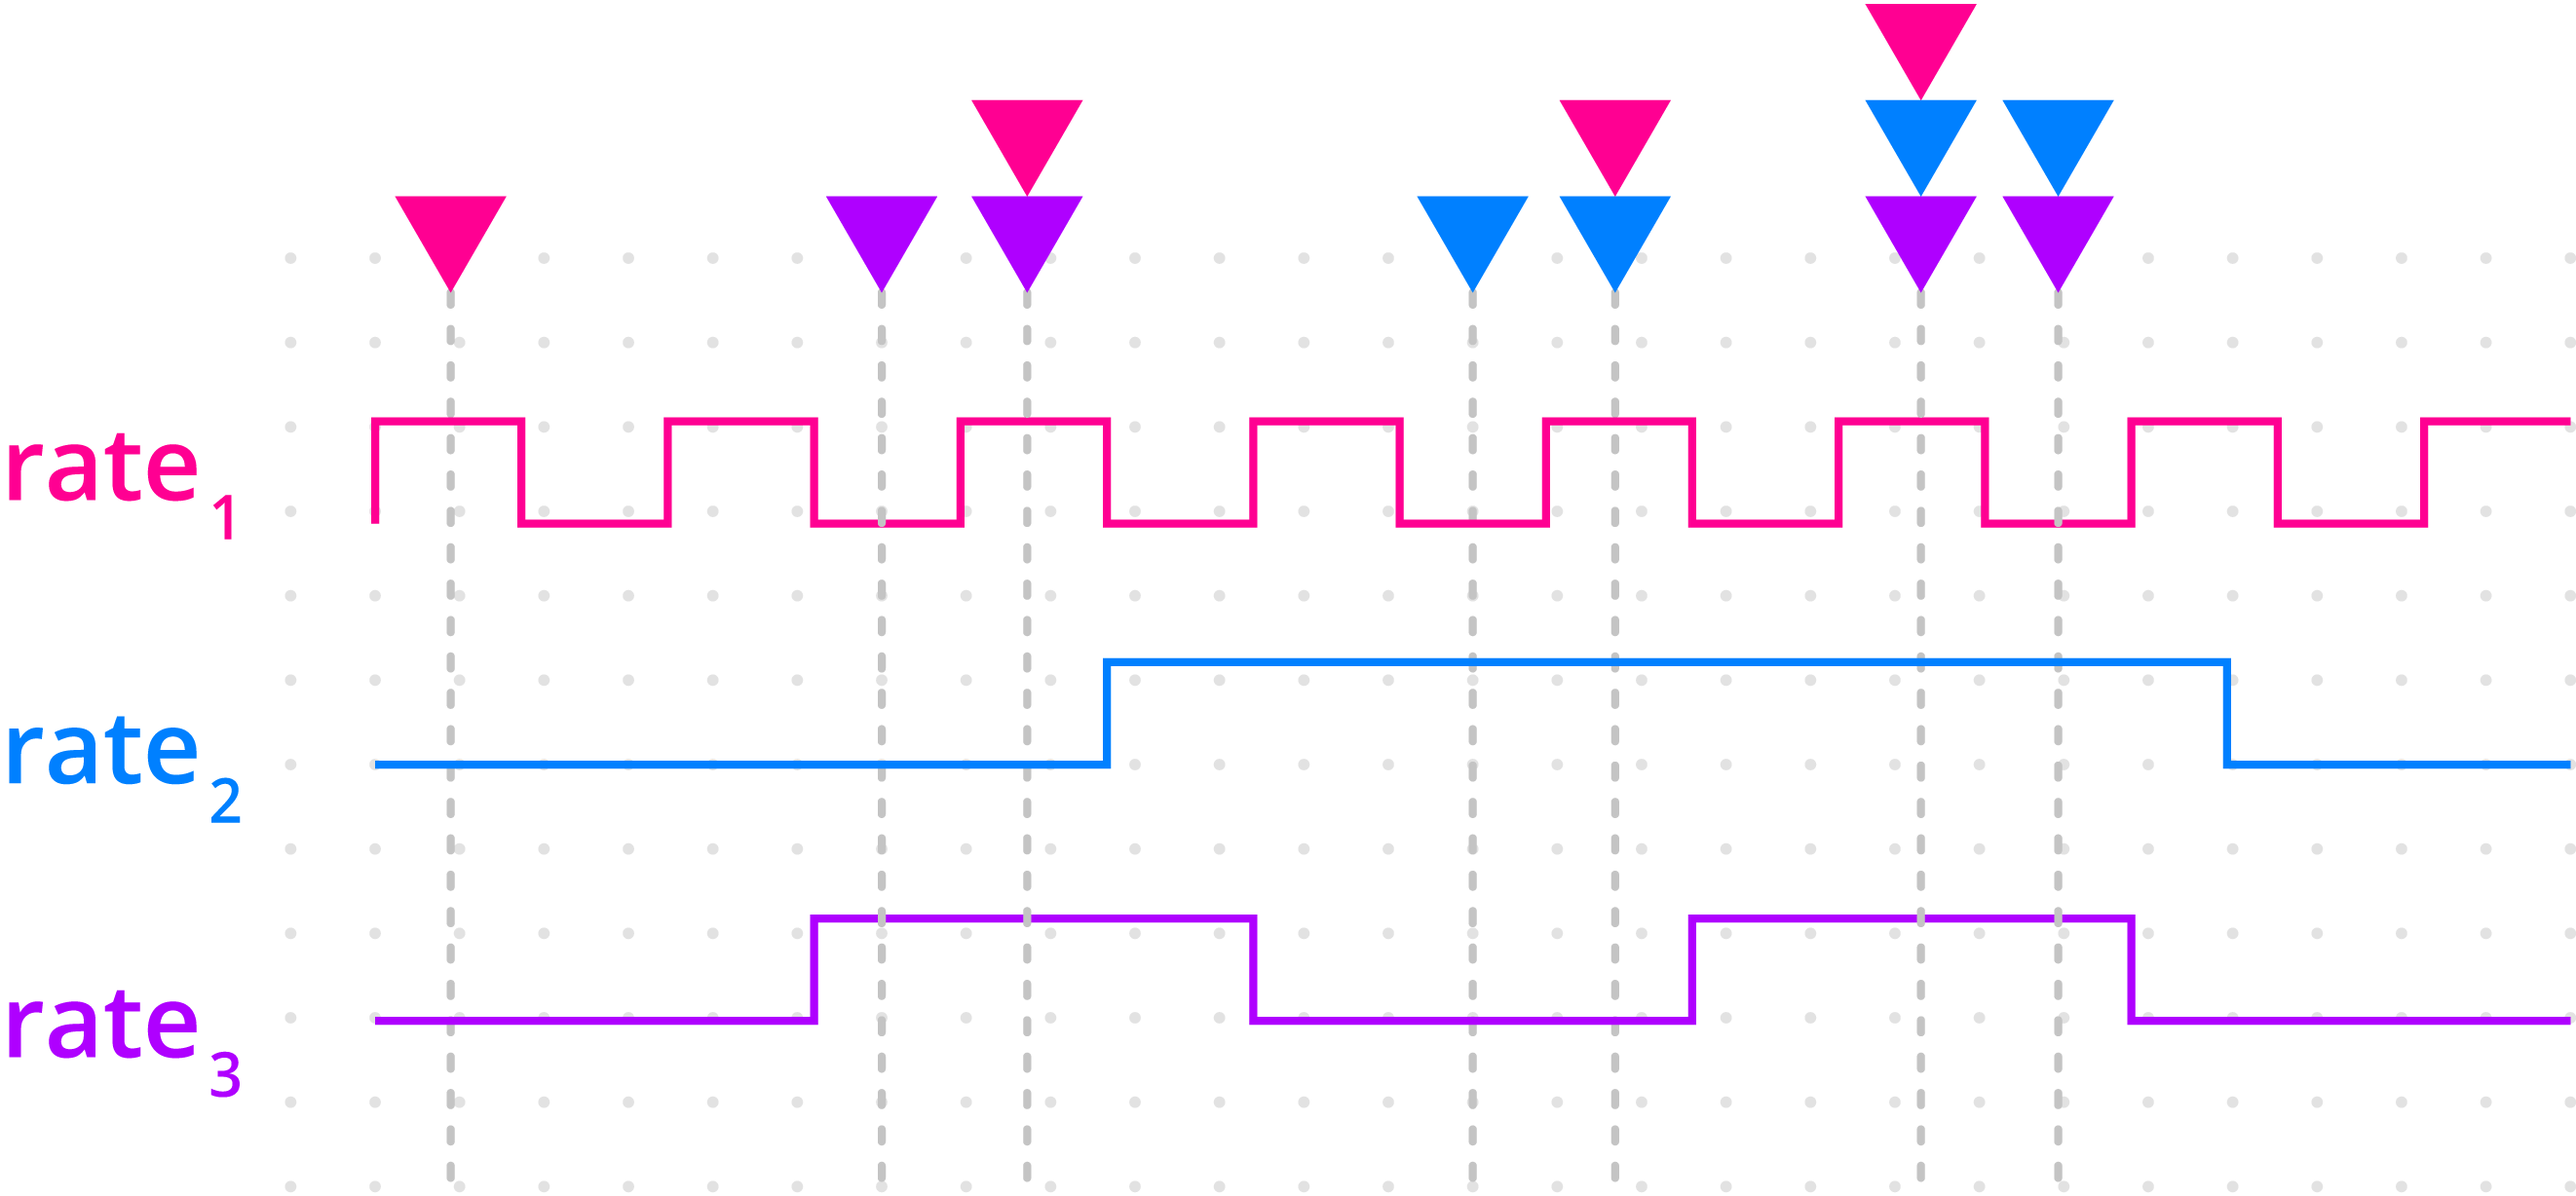
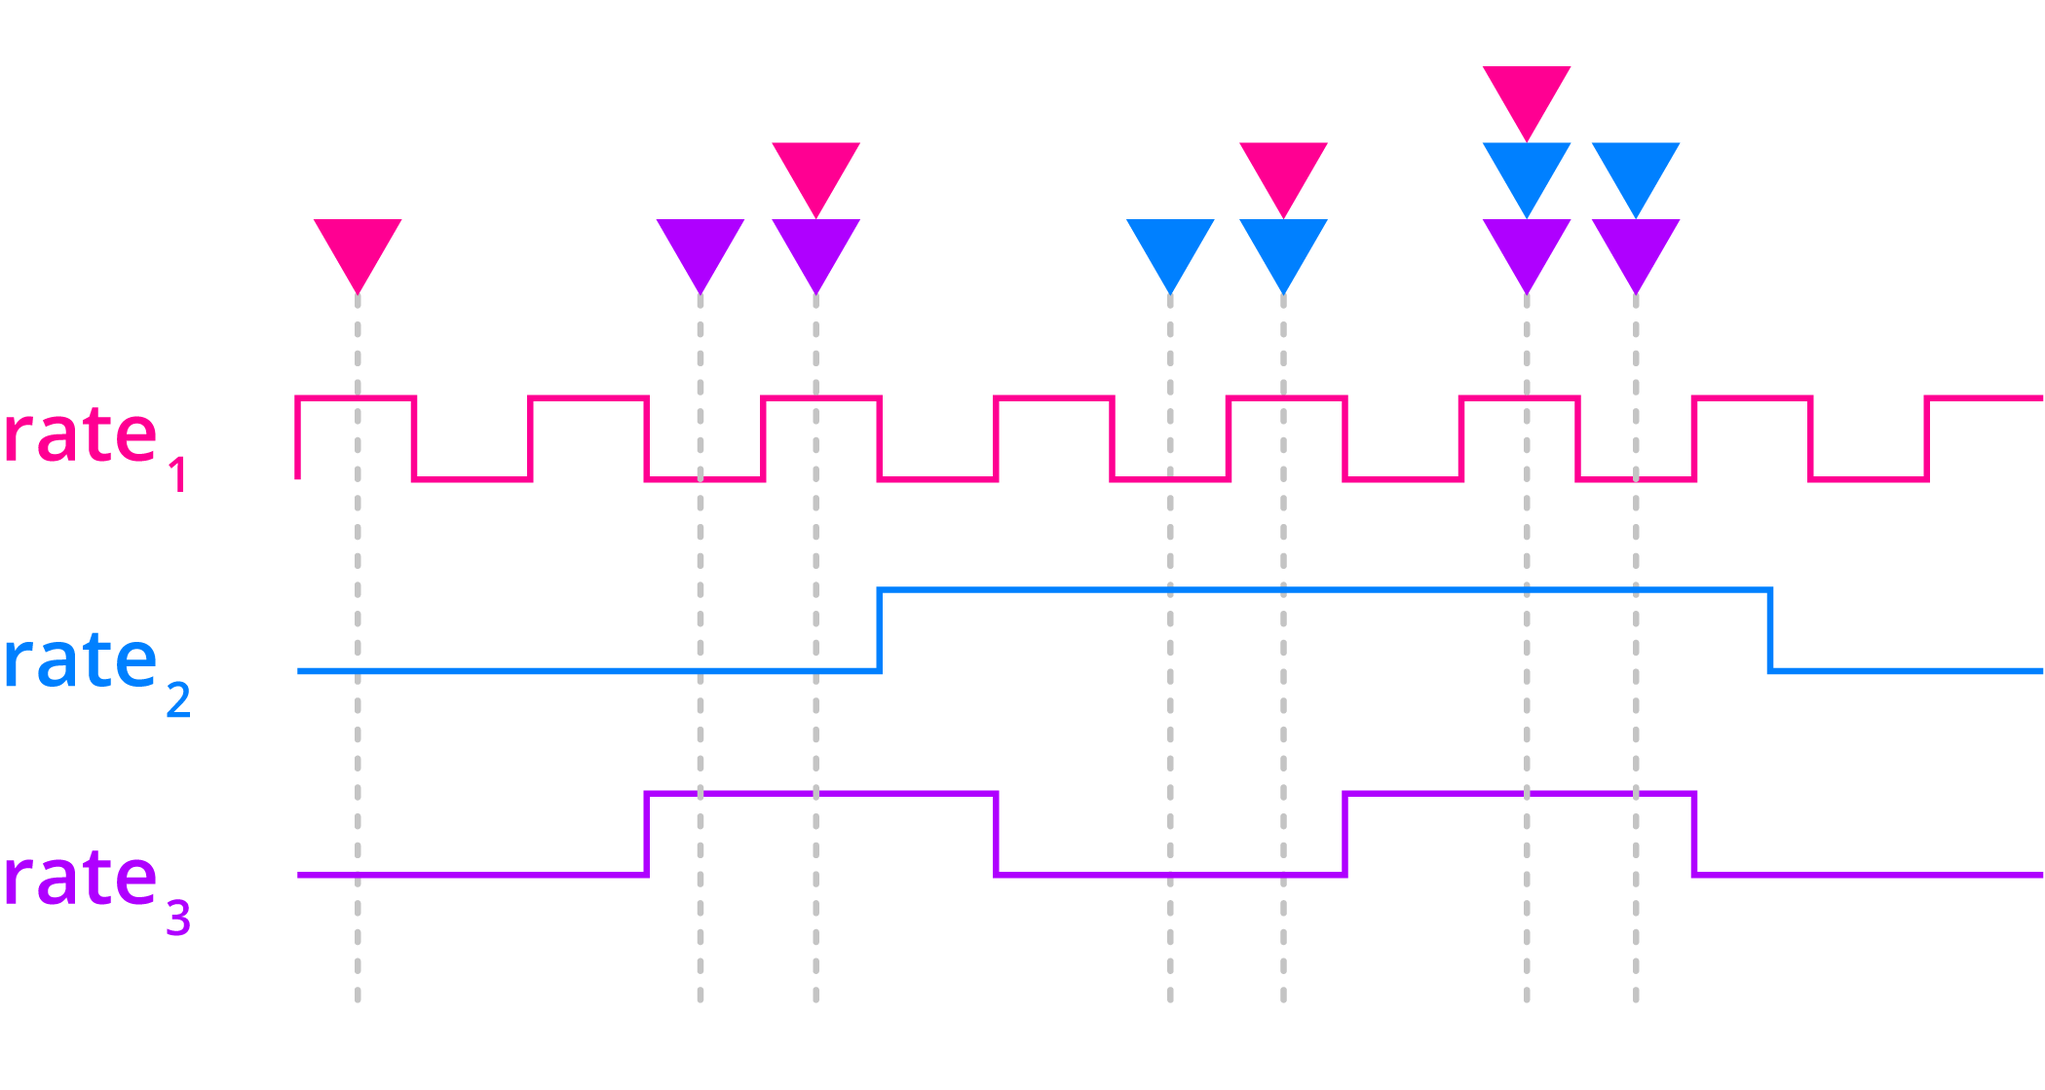
Updates for readability

diff --git a/src/articles/components/kalman-filter.tsx b/src/articles/components/kalman-filter.tsx
@@ -13,7 +13,8 @@ import {
   multiply,
   divide,
   add,
-  subtract
+  subtract,
+  sum
 } from 'mathjs';
 import { MOBILE } from '../../constants';
 import LoadImage from './load';
@@ -34,6 +35,7 @@ const kalmanFilter = ({
   const Atrans = transpose(A);
   const Ctrans = transpose(C);
   const I = identity(x0.size());
+  const gains = [];
 
   // Initial estimate from system with initial state
   let y = multiply(C, x0)._data[0][0];
@@ -44,7 +46,7 @@ const kalmanFilter = ({
   // Initial uncertainty
   let P = P0;
 
-  return measurements.map((measurement, index) => {
+  const outputs = measurements.map((measurement, index) => {
     // Input
     const z = isNaN(measurement) ? 0 : measurement;
     const u = isNaN(inputs[index]) ? 0 : inputs[index];
@@ -78,8 +80,11 @@ const kalmanFilter = ({
     x = add(multiply(A, x), multiply(B, u));
 
     // Output
+    gains.push(sum(K));
     return y;
   });
+
+  return { outputs, gains };
 };
 
 //
@@ -342,10 +347,13 @@ const Chart = ({
   rows,
   columnIndex,
   outputs,
+  gains,
   width
 }) => {
   const height = 200;
   const rulerMarkSize = 40;
+
+  const [hoverPos, setHoverPos] = useState();
 
   const samples = useMemo(
     () => rows.slice(0, rows.length - 1).map(r => Number(r[columnIndex] ?? 0)),
@@ -358,13 +366,40 @@ const Chart = ({
     }), {}),
   [samples]);
 
+  const { minGain, maxGain } = useMemo(() => gains.reduce(
+    ({ minGain, maxGain }, gain) => ({
+      minGain: minGain === undefined ? gain : Math.min(minGain, gain),
+      maxGain: maxGain === undefined ? gain : Math.max(maxGain, gain),
+    }), {}),
+  [gains])
+
+  const chartRef = useRef();
+
+  const handleMouseMove = useCallback(({ clientX }) => {
+    const offset = 40;
+    const { x } = chartRef.current?.getBoundingClientRect();
+    const pos = Math.min(Math.max(0, clientX - x - offset), width);
+    setHoverPos(pos / width);
+  }, [width])
+
+  const handleMouseLeave = useCallback(() => {
+    setHoverPos(undefined);
+  }, [])
+
+  const hoverGain = Boolean(gains?.length && hoverPos)
+    ? (gains[Math.round(hoverPos * gains.length)] - minGain) / (maxGain - minGain)
+    : undefined;
+
   if (!width) return null;
 
   return (
     <svg
+      ref={chartRef}
       width={`${width}px`}
       height={`${height}px`}
       viewBox={`0 0 ${width} ${height}`}
+      onMouseMove={handleMouseMove}
+      onMouseLeave={handleMouseLeave}
     >
       <ChartBackground />
       <polyline
@@ -383,6 +418,21 @@ const Chart = ({
           outputs, min, max, width - rulerMarkSize * 2, height - rulerMarkSize, rulerMarkSize, 0
         )}
       />
+      <polyline
+        fill="none"
+        stroke="#888888"
+        strokeMiterlimit="10"
+        points={getPoints(
+          gains, minGain, maxGain, width - rulerMarkSize * 2, height - rulerMarkSize, rulerMarkSize, 0
+        )}
+      />
+      {hoverGain && <path
+        fill="none"
+        stroke="#12e192"
+        strokeMiterlimit="10"
+        d={`M${-(1-hoverGain) * 100},59.7C27.1,60.1,${17.8 * hoverGain + 2 * (1 - hoverGain)},2.3,31.7,2.3S36.2,61,${63.3 + (1-hoverGain) * 100},60.6`}
+        transform={`translate(${hoverPos * width + 8} 112)`}
+      />}
     </svg>
   );
 };
@@ -410,7 +460,7 @@ const KalmanDemo = () => {
   const { z, u } = columnMap;
   const { A, B, C, D, Q, P0, R, x0 } = params;
 
-  const outputs = useMemo(() => {
+  const { outputs, gains } = useMemo(() => {
     try {
       const inputs = rows
         .map(r => Number(r[u - 1]));
@@ -518,6 +568,7 @@ const KalmanDemo = () => {
             <Chart
               rows={rows}
               outputs={outputs}
+              gains={gains}
               columnIndex={z - 1}
               width={chartAreaRef.current?.clientWidth}
             />

diff --git a/src/articles/kalman-filter.md b/src/articles/kalman-filter.md
@@ -1,9 +1,9 @@
 ---
 title: Kalman Filter
 description: Design and practical applications of Kalman filter
-image: ./images/kalman-filter.png
+image: ./images/kalman-filter2.png
 author: Valeriy Novytskyy
-date: 2024-07-17
+date: 2024-07-24
 location: ^H Hackerspace
 tags:
   [
